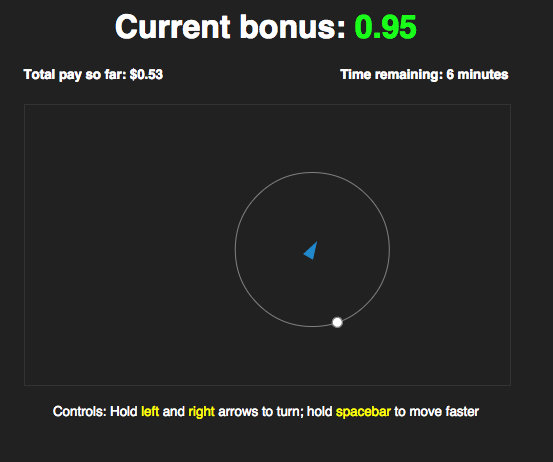
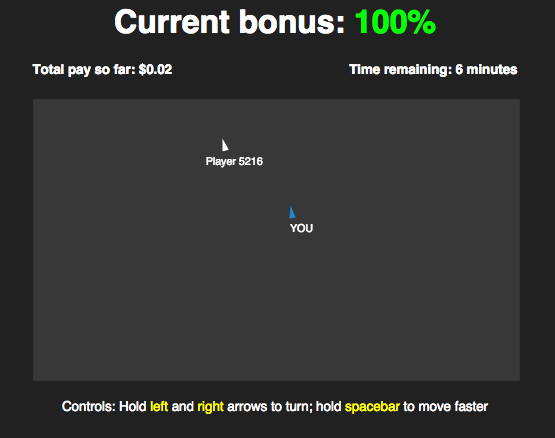
Updated HTML pages for consent, instructions, etc.

diff --git a/forms/instructions.html b/forms/instructions.html
@@ -46,21 +46,20 @@
       so <strong>read these instructions carefully</strong>.</p>
 
       <p>After finishing the instructions, you will then enter a
-      waiting room.  This task requires multiple participants, so you
-      may have to wait for other players to join before the game will
-      start.  <strong>You will be compensated for your time in the
-      waiting room, so please continue to pay attention as the game
-      should begin shortly.</strong> While you are waiting for other
-      players, feel free to familiarize yourself with the controls in
-      the game.  The game controls are the same in the waiting room as
-      in the real game.</p>
+      waiting room for a game.  Some games require multiple
+      participants, so you may have to wait for other players to join
+      before the game will start.  The maximum time you will spend in
+      the waiting room is five minutes.  While you are waiting for
+      other players, feel free to familiarize yourself with the
+      controls in the game.  The game controls are the same in the
+      waiting room as in the real game.</p>
 
       
       <p>Once the game starts, you will see a screen that looks much
       like the following:</p>
 
       <p>
-      <center><img src="gameplay-2.png" alt="Example gameplay" style="width:304px;height:228px"></center>
+      <center><img src="gameplay-1.png" alt="Example gameplay" style="width:304px;height:228px"></center>
 	  </p>
 
       <p>
@@ -69,38 +68,30 @@
 	bar will increase your speed.  The left and right arrow keys
 	will control the direction of your movement.</strong> You will
 	have a score at each point in the game, indicated by the
-	"Current Score" at the top of the page.  Each location in the
+	percentage shown at the top of the page.  Each location in the
 	game area is associated with a certain score.  <strong>Your
 	goals is to locate yourself in high scoring locations for as
 	long as possible.</strong> <strong>You will receive a cash
 	bonus based on your cumulative score in the game.</strong> The
-	scores of locations will change over time.  Note that in the
-	waiting room, the score for every location will be zero, but
-	this will change once the game starts.
+	scores of locations will change over time, so you will have to
+	continuously be ready to move around to maximize your bonus.
+	Note that in the waiting room, the score for every location
+	will be zero, but this will change once the game starts.
       </p>
       
 	<p>
-	When you are close enough to another player in the game, you
-	will be able to see that the location, direction, and speed of
-	that player, as in the screenshot above.  Your field of view
-	is indicated by the circle surrounding your triangle. If you
-	move away from the player, the player will then appear as a
-	dot on your field of view, as shown here:
+	  You will also be able to see the other participants who are
+	  currently playing in your game.  These players can also see
+	  you.  <strong>The other players get the same scores as you
+	  do at the same locations, and there is no competition
+	  between players.</strong>  For example, as shown in the
+	  following screenshot, there is no penalty for being close to
+	  another player:
 	</p>
 
       <p>
-      <center><img src="gameplay-1.png" alt="Example gameplay" style="width:304px;height:228px"></center>
+      <center><img src="gameplay-2.png" alt="Example gameplay" style="width:304px;height:228px"></center>
 	  </p>
-
-
-      <p>
-	The dot indicates the direction towards that player.
-	<strong>Note that there is no competition for
-	bonuses.</strong> All participants are playing in the same
-	environments and receive the same bonuses at identical
-	locations.  You can be at the same location as another player
-	with no penalty.
-	</p>
 
       <p><strong>After the game ends, you will receive a survey code
       to submit with your HIT.  You must submit the code exactly as
@@ -117,7 +108,7 @@
       <form name="quiz" onsubmit="return validateForm()">
 
 	</br>
-	Your goal is to
+	Your goal in this game is to
 	  </br>
 	<input type="radio" name="goal" value="no"> Find areas with low scores
 	  </br>
@@ -171,11 +162,11 @@
 	  </br>
 
 	</br>
-	If you are at the same location as another player you will
+	The scores at all locations at a particular point in time
       </br>
-	<input type="radio" name="diff" value="yes"> Both receive the same bonus
+	<input type="radio" name="diff" value="yes"> Are the same for all players
 	  </br>
-	    <input type="radio" name="diff" value="no"> May receive different bonuses
+	    <input type="radio" name="diff" value="no">  May be different for different players
 	  </br>
 
 	</br>

diff --git a/forms/pass.html b/forms/pass.html
@@ -41,7 +41,17 @@
 
       <div class="well">
       <center>
-	Click below to enter the waiting room.
+	Click below to enter the waiting room. At the end of the game
+	you will receive a code to earn your bonus.
+	</center>
+      </div>
+
+      <div class="well">
+      <center>
+	If the page does not
+	load after one minute, please submit the HIT with the following code: 
+	</br>
+	INSTRUCTIONS
 	</center>
       </div>
 
